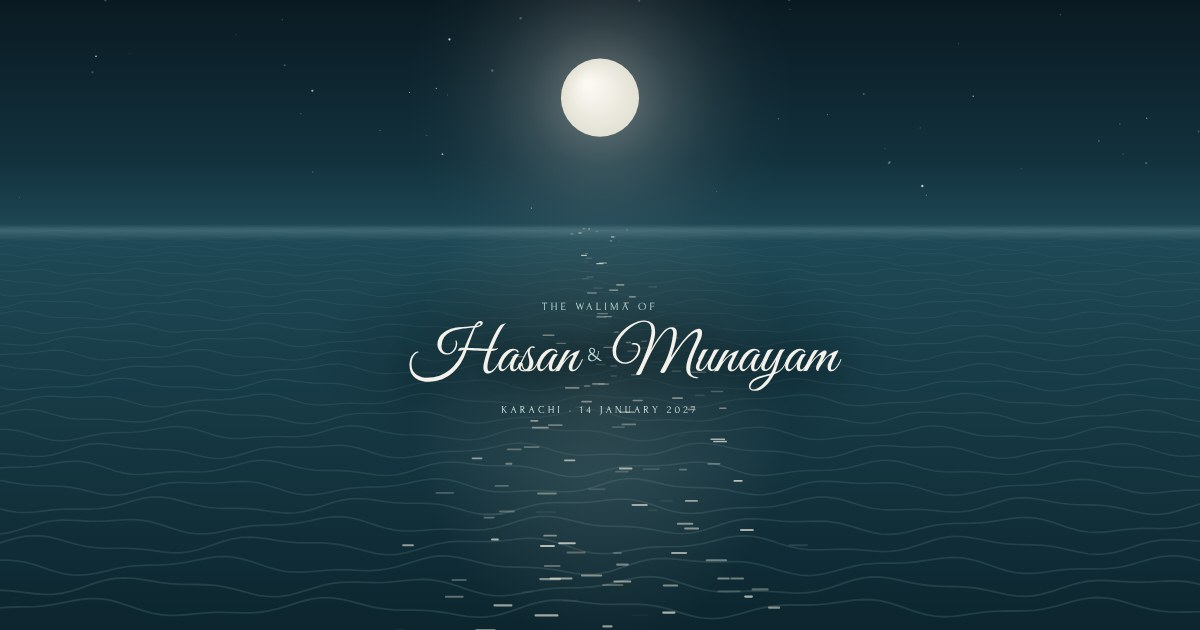
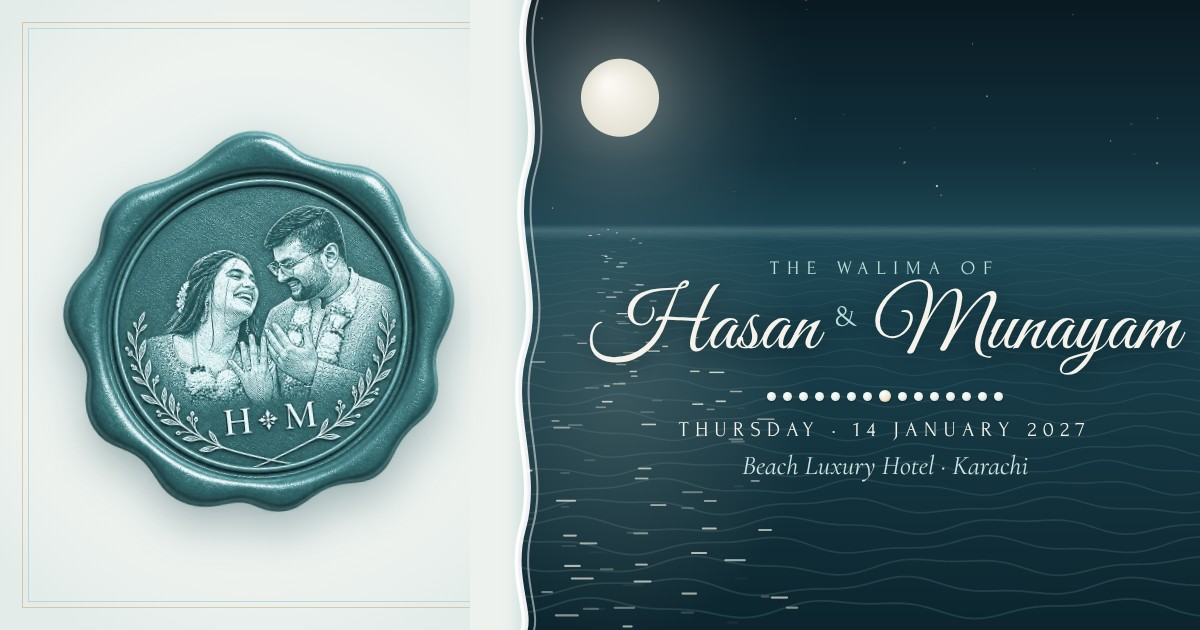
Walima (Karachi): new link cover
Claude-Session: https://claude.ai/code/session_012vJGjKds1Zshw1e9N6VHub

diff --git a/walima-karachi/index.html b/walima-karachi/index.html
@@ -10,6 +10,8 @@
 <meta property="og:title" content="Hasan &amp; Munayam &middot; Walima">
 <meta property="og:description" content="Thursday 14 January 2027 &middot; Beach Luxury Hotel, Karachi. Tap to open your invitation.">
 <meta property="og:image" content="https://haiderali031.github.io/wedding/walima-karachi/preview.jpg">
+<meta property="og:image:secure_url" content="https://haiderali031.github.io/wedding/walima-karachi/preview.jpg">
+<meta property="og:image:type" content="image/jpeg">
 <meta property="og:image:width" content="1200">
 <meta property="og:image:height" content="630">
 <meta property="og:url" content="https://haiderali031.github.io/wedding/walima-karachi/">
